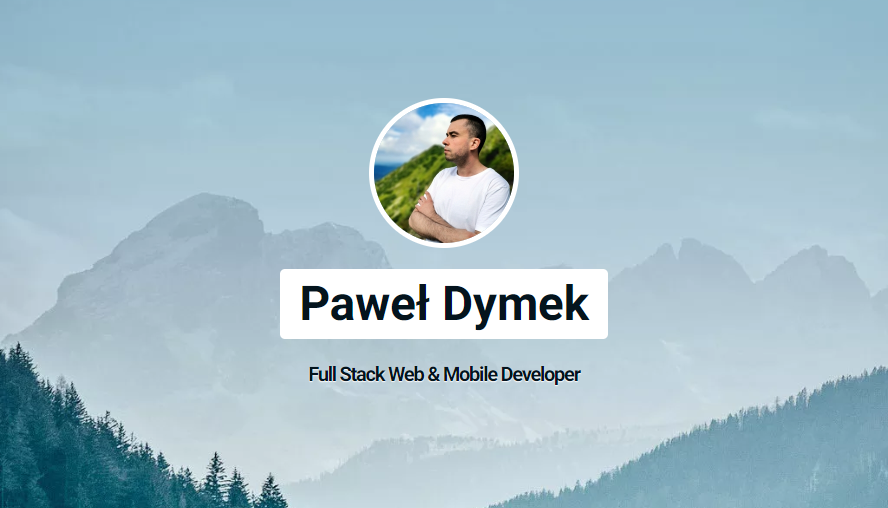
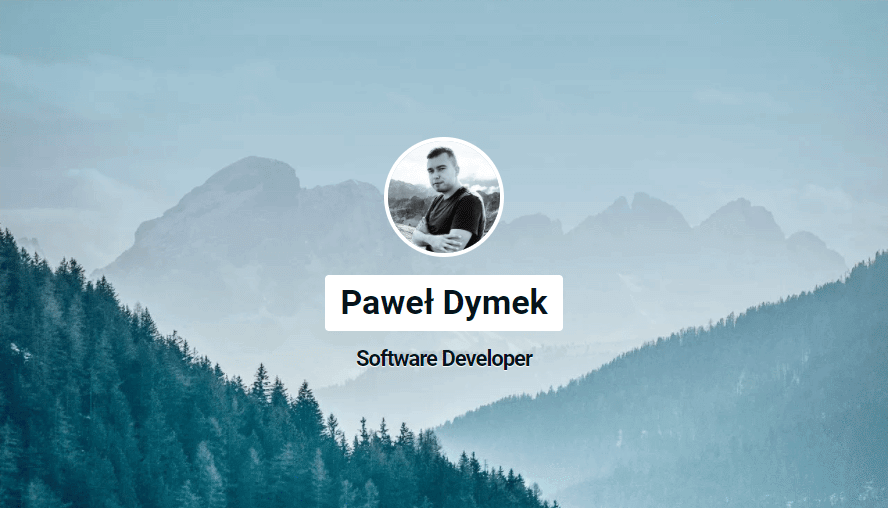
Update photo and profession title

diff --git a/public/css/app.css b/public/css/app.css
@@ -1,1 +1,1 @@
-html{box-sizing:border-box;font-size:16px}*,:after,:before{box-sizing:inherit}body,h1,h2,h3,h4,h5,h6,ol,p,ul{margin:0;padding:0;font-weight:400}ol,ul{list-style:none}img{max-width:100%;height:auto}body,html{width:100%;height:100%}body{font:16px/26px Roboto,sans-serif;color:#04141d}@media (max-width:576px){body{font-size:14px;line-height:24px}}a{text-decoration:none}code.hljs{border-radius:4px}.btn{padding:6px 10px;display:inline-block;-webkit-transition:all .3s;transition:all .3s}.btn.btn-sm{padding:2px 10px}.btn.btn-light{background:#eee;border-radius:4px;line-height:160%;color:#0175bf}.btn.btn-light i{font-size:14px;color:#0175bf}.btn.btn-light:hover{color:#fff;background:#0175bf}.btn.btn-light:hover i{color:#fff}@font-face{font-family:fontello;src:url(../fonts/fontello.eot?78377056);src:url(../fonts/fontello.eot?78377056#iefix) format("embedded-opentype"),url(../fonts/fontello.woff2?78377056) format("woff2"),url(../fonts/fontello.woff?78377056) format("woff"),url(../fonts/fontello.ttf?78377056) format("truetype"),url(../fonts/fontello.svg?78377056#fontello) format("svg");font-weight:400;font-style:normal}[class*=" icon-"]:before,[class^=icon-]:before{font-family:fontello;font-style:normal;font-weight:400;speak:none;display:inline-block;text-decoration:inherit;width:1em;margin-right:.2em;text-align:center;font-variant:normal;text-transform:none;line-height:1em;margin-left:.2em;-webkit-font-smoothing:antialiased;-moz-osx-font-smoothing:grayscale}.icon-search:before{content:"\E800"}.icon-cancel:before{content:"\E801"}.icon-left-open:before{content:"\E802"}.icon-link-ext:before{content:"\F08E"}.icon-twitter:before{content:"\F099"}.icon-github-circled:before{content:"\F09B"}.icon-mail-alt:before{content:"\F0E0"}.icon-facebook-squared:before{content:"\F308"}.icon-linkedin-squared:before{content:"\F30C"}.hljs{display:block;overflow-x:auto;padding:.5em;background:#282a36}.hljs-keyword,.hljs-link,.hljs-literal,.hljs-section,.hljs-selector-tag{color:#8be9fd}.hljs-function .hljs-keyword{color:#ff79c6}.hljs,.hljs-subst{color:#f8f8f2}.hljs-addition,.hljs-attribute,.hljs-bullet,.hljs-name,.hljs-string,.hljs-symbol,.hljs-template-tag,.hljs-template-variable,.hljs-title,.hljs-type,.hljs-variable{color:#f1fa8c}.hljs-comment,.hljs-deletion,.hljs-meta,.hljs-quote{color:#6272a4}.hljs-doctag,.hljs-keyword,.hljs-literal,.hljs-name,.hljs-section,.hljs-selector-tag,.hljs-strong,.hljs-title,.hljs-type{font-weight:700}.hljs-emphasis{font-style:italic}#wrapper{min-width:320px;height:100%}#wrapper #content{display:-webkit-box;display:flex;-webkit-box-flex:1;flex:1;-webkit-box-pack:end;justify-content:flex-end}@media (max-width:992px){#wrapper #content{height:auto;display:block}}#wrapper #content>#main,#wrapper #content>#sidebar{width:50%}@media (max-width:992px){#wrapper #content>#main,#wrapper #content>#sidebar{width:100%;position:static}}#wrapper #content>#sidebar{height:100%}@media (max-width:992px){#wrapper #content>#sidebar{height:auto}}#wrapper #content>#main{padding:50px}@media (max-width:992px){#wrapper #content>#main{overflow-y:auto}}@media (max-width:768px){#wrapper #content>#main{padding:30px}}@media (max-width:576px){#wrapper #content>#main{padding:15px}}#wrapper footer.main{margin-top:30px;padding-top:15px;border-top:1px solid #ccc;display:-webkit-box;display:flex;-webkit-box-pack:justify;justify-content:space-between;-webkit-box-align:center;align-items:center;color:#888}#wrapper footer.main .copyright,#wrapper footer.main .links{font-weight:300}@media (max-width:576px){#wrapper footer.main{-webkit-box-orient:vertical;-webkit-box-direction:normal;flex-direction:column}#wrapper footer.main .links{margin-top:10px}}#wrapper footer.main a{color:#0175bf}#wrapper footer.main a:hover{text-decoration:underline}#sidebar{width:50%;height:100%;padding:60px;text-align:center;position:fixed;top:0;left:0;display:-webkit-box;display:flex;-webkit-box-pack:center;justify-content:center;-webkit-box-align:center;align-items:center;-webkit-box-orient:vertical;-webkit-box-direction:normal;flex-direction:column;background:url(../images/backgrounds/1.jpg) 50% 50%/cover no-repeat;overflow-y:auto}@media (max-width:768px){#sidebar{height:auto;padding:50px 30px;display:block;overflow-y:visible}}#sidebar header .author .photo{margin-bottom:15px;line-height:100%}#sidebar header .author img{max-width:120px;border-radius:60px;border:4px solid #fff}@media (max-width:768px){#sidebar header .author img{max-width:100px;border-radius:50px}}#sidebar header .author h1,#sidebar header .author h2{margin-bottom:15px;padding:15px;font-size:38px;display:inline-block;background:#fff;color:#04141d;font-weight:700;border-radius:4px}@media (max-width:768px){#sidebar header .author h1,#sidebar header .author h2{font-size:32px}}#sidebar header .author span{display:block;font-weight:700;font-size:16px;letter-spacing:-1px;color:#04141d;text-shadow:0 1px 1px #fff}#sidebar header .author.small{margin-bottom:30px;display:block}@media (max-width:768px){#sidebar header .author.small{margin-bottom:20px}}#sidebar header .author.small .photo{margin-bottom:5px}#sidebar header .author.small img{max-width:60px;border-radius:30px;border-width:3px}#sidebar header .author.small h2{font-size:16px;padding:2px 10px}#sidebar .icons{width:100%;margin-top:15px;display:-webkit-box;display:flex;-webkit-box-pack:center;justify-content:center;-webkit-box-align:center;align-items:center;-webkit-box-orient:horizontal;-webkit-box-direction:normal;flex-direction:row}#sidebar .icons li{margin-left:10px;font-size:18px}#sidebar .icons li:first-of-type{margin-left:0;font-size:22px}#sidebar .icons li:nth-of-type(3) i{margin-top:-1px}#sidebar .icons li a{width:40px;height:40px;display:-webkit-box;display:flex;-webkit-box-pack:center;justify-content:center;-webkit-box-align:center;align-items:center;color:#fff;background:#012d48;border-radius:4px;-webkit-transition:all .3s;transition:all .3s}#sidebar .icons li a:hover{background:#0175bf}#sidebar h1.title{font-size:40px;font-weight:700;line-height:150%;display:inline-block;color:#fff}@media (max-width:992px){#sidebar h1.title{font-size:36px}}@media (max-width:768px){#sidebar h1.title{font-size:30px}}@media (max-width:576px){#sidebar h1.title{font-size:24px}}#sidebar h1.title span{background:#04141d;box-shadow:24px 0 0 #04141d,-24px 0 0 #04141d;padding:2px}@media (max-width:992px){#posts{padding:15px 0}}#posts article{padding:25px 0;border-top:1px solid #ccc}#posts article:first-of-type{padding-top:0;border-top:0}#posts article:last-of-type{padding-bottom:0}#posts article header{margin-bottom:25px}#posts article header h3{margin-bottom:10px;font-weight:700;font-size:26px;line-height:130%}@media (max-width:576px){#posts article header h3{font-size:22px}}#posts article header h3 a{color:#04141d;-webkit-transition:all .3s;transition:all .3s}#posts article header h3 a:hover{color:#0175bf}#posts article header .bottom{font-weight:300;line-height:120%;color:#888}#posts article header .bottom span{margin:0 4px;font-size:12px}#posts article header .bottom a{color:#888}#posts article header .bottom a:hover{color:#0175bf}#posts article header .bottom a i{margin-right:5px;vertical-align:middle}#posts article .read-more,#posts article .tags{margin-top:25px}#posts article .read-more a{color:#0175bf}#posts article .read-more a:hover{text-decoration:underline}.tags{margin:15px 0 0 -3px;display:-webkit-box;display:flex;flex-wrap:wrap;-webkit-box-align:center;align-items:center}.tags li{padding:3px}.tags li a{padding:5px 10px;display:inline-block;background:#eee;color:#0175bf;-webkit-transition:all .3s;transition:all .3s;border-radius:4px}.tags li a:hover{background:#0175bf;color:#fff}#article .top-bar{margin-bottom:30px;position:relative;text-align:center}@media (max-width:576px){#article .top-bar{margin-top:15px}}#article .top-bar:after{width:100%;height:1px;position:absolute;top:50%;left:0;content:" ";background:#ccc}#article .top-bar p{margin:0;padding:0 10px;display:inline-block;background:#fff;position:relative;z-index:2;font-weight:300;color:#888}@media (max-width:576px){#article .top-bar p{font-size:12px;line-height:100%;letter-spacing:-.5px}}#article .top-bar p span{font-size:12px}#article h1,#article h2,#article h3,#article h4,#article h5,#article h6{margin-bottom:30px;font-size:34px;font-weight:700;color:#666}@media (max-width:576px){#article h1,#article h2,#article h3,#article h4,#article h5,#article h6{font-size:30px}}#article h1,#article h2{color:#04141d}#article h2{font-size:26px}@media (max-width:576px){#article h2{font-size:24px}}#article h3{font-size:24px}@media (max-width:576px){#article h3{font-size:22px}}#article h4{font-size:22px}@media (max-width:576px){#article h4{font-size:20px}}#article h5{font-size:20px}@media (max-width:576px){#article h5{font-size:18px}}#article h6{font-size:18px}@media (max-width:576px){#article h6{font-size:16px}}#article .intro{font-size:18px;margin-bottom:30px;font-weight:700}@media (max-width:576px){#article .intro{font-size:16px}}#article figure.main{margin:0 0 30px;padding:0;line-height:100%;text-align:center}#article figure.main img{max-width:100%}#article figure.main figcaption{margin-top:10px;font-size:12px;color:#999}#article .content ul{margin:0 0 30px 30px;list-style-type:disc}#article .content ol{margin:0 0 30px 30px;list-style-type:decimal}#article .content p,#article .content pre{margin-bottom:30px}#article .content>p>code,#article .content li>code{margin:0 2px;padding:2px 5px;background:#eee}#article .content a{color:#0175bf;text-decoration:underline}#article .content a:hover{text-decoration:none}#article .content img{max-width:100%}#article .tags{margin-top:30px}#article .back-button{margin-top:30px;display:block;color:#0175bf;-webkit-transition:all .3s;transition:all .3s}#article .back-button:hover{color:#04141d}#article .back-button i{margin-right:5px;vertical-align:middle}#article #disqus_thread{min-height:100px;margin-top:30px}#cookie-alert{width:100%;padding:6px 10px;background:#fff;position:fixed;left:0;bottom:0;z-index:5;font-size:14px;line-height:120%;text-align:center;box-shadow:0 -2px 2px hsla(0,0%,58.8%,.2);-webkit-transition:opacity .3s;transition:opacity .3s}#cookie-alert.hidden{opacity:0}#cookie-alert .inner{padding:0 10px;display:-webkit-box;display:flex;-webkit-box-pack:center;justify-content:center;-webkit-box-align:center;align-items:center}@media (max-width:992px){#cookie-alert .inner{-webkit-box-orient:vertical;-webkit-box-direction:normal;flex-direction:column}}#cookie-alert .inner>div:nth-of-type(2){margin-left:20px}#cookie-alert .inner p{margin:0}@media (max-width:992px){#cookie-alert .inner p{margin-bottom:10px}}#cookie-alert .inner .btn{white-space:nowrap}#cookie-alert .inner .btn i{margin:0 2px 0 -6px}#wrapper #content.home #sidebar{background:url(../images/backgrounds/6.jpg) 50% 35%/cover no-repeat}
+html{box-sizing:border-box;font-size:16px}*,:after,:before{box-sizing:inherit}body,h1,h2,h3,h4,h5,h6,ol,p,ul{margin:0;padding:0;font-weight:400}ol,ul{list-style:none}img{max-width:100%;height:auto}body,html{width:100%;height:100%}body{font:16px/26px Roboto,sans-serif;color:#04141d}@media (max-width:576px){body{font-size:14px;line-height:24px}}a{text-decoration:none}code.hljs{border-radius:4px}.btn{padding:6px 10px;display:inline-block;-webkit-transition:all .3s;transition:all .3s}.btn.btn-sm{padding:2px 10px}.btn.btn-light{background:#eee;border-radius:4px;line-height:160%;color:#0175bf}.btn.btn-light i{font-size:14px;color:#0175bf}.btn.btn-light:hover{color:#fff;background:#0175bf}.btn.btn-light:hover i{color:#fff}@font-face{font-family:fontello;src:url(../fonts/fontello.eot?78377056);src:url(../fonts/fontello.eot?78377056#iefix) format("embedded-opentype"),url(../fonts/fontello.woff2?78377056) format("woff2"),url(../fonts/fontello.woff?78377056) format("woff"),url(../fonts/fontello.ttf?78377056) format("truetype"),url(../fonts/fontello.svg?78377056#fontello) format("svg");font-weight:400;font-style:normal}[class*=" icon-"]:before,[class^=icon-]:before{font-family:fontello;font-style:normal;font-weight:400;speak:none;display:inline-block;text-decoration:inherit;width:1em;margin-right:.2em;text-align:center;font-variant:normal;text-transform:none;line-height:1em;margin-left:.2em;-webkit-font-smoothing:antialiased;-moz-osx-font-smoothing:grayscale}.icon-search:before{content:"\E800"}.icon-cancel:before{content:"\E801"}.icon-left-open:before{content:"\E802"}.icon-link-ext:before{content:"\F08E"}.icon-twitter:before{content:"\F099"}.icon-github-circled:before{content:"\F09B"}.icon-mail-alt:before{content:"\F0E0"}.icon-facebook-squared:before{content:"\F308"}.icon-linkedin-squared:before{content:"\F30C"}.hljs{display:block;overflow-x:auto;padding:.5em;background:#282a36}.hljs-keyword,.hljs-link,.hljs-literal,.hljs-section,.hljs-selector-tag{color:#8be9fd}.hljs-function .hljs-keyword{color:#ff79c6}.hljs,.hljs-subst{color:#f8f8f2}.hljs-addition,.hljs-attribute,.hljs-bullet,.hljs-name,.hljs-string,.hljs-symbol,.hljs-template-tag,.hljs-template-variable,.hljs-title,.hljs-type,.hljs-variable{color:#f1fa8c}.hljs-comment,.hljs-deletion,.hljs-meta,.hljs-quote{color:#6272a4}.hljs-doctag,.hljs-keyword,.hljs-literal,.hljs-name,.hljs-section,.hljs-selector-tag,.hljs-strong,.hljs-title,.hljs-type{font-weight:700}.hljs-emphasis{font-style:italic}#wrapper{min-width:320px;height:100%}#wrapper #content{display:-webkit-box;display:flex;-webkit-box-flex:1;flex:1;-webkit-box-pack:end;justify-content:flex-end}@media (max-width:992px){#wrapper #content{height:auto;display:block}}#wrapper #content>#main,#wrapper #content>#sidebar{width:50%}@media (max-width:992px){#wrapper #content>#main,#wrapper #content>#sidebar{width:100%;position:static}}#wrapper #content>#sidebar{height:100%}@media (max-width:992px){#wrapper #content>#sidebar{height:auto}}#wrapper #content>#main{padding:50px}@media (max-width:992px){#wrapper #content>#main{overflow-y:auto}}@media (max-width:768px){#wrapper #content>#main{padding:30px}}@media (max-width:576px){#wrapper #content>#main{padding:15px}}#wrapper footer.main{margin-top:30px;padding-top:15px;border-top:1px solid #ccc;display:-webkit-box;display:flex;-webkit-box-pack:justify;justify-content:space-between;-webkit-box-align:center;align-items:center;color:#888}#wrapper footer.main .copyright,#wrapper footer.main .links{font-weight:300}@media (max-width:576px){#wrapper footer.main{-webkit-box-orient:vertical;-webkit-box-direction:normal;flex-direction:column}#wrapper footer.main .links{margin-top:10px}}#wrapper footer.main a{color:#0175bf}#wrapper footer.main a:hover{text-decoration:underline}#sidebar{width:50%;height:100%;padding:60px;text-align:center;position:fixed;top:0;left:0;display:-webkit-box;display:flex;-webkit-box-pack:center;justify-content:center;-webkit-box-align:center;align-items:center;-webkit-box-orient:vertical;-webkit-box-direction:normal;flex-direction:column;background:url(../images/backgrounds/1.jpg) 50% 50%/cover no-repeat;overflow-y:auto}@media (max-width:768px){#sidebar{height:auto;padding:50px 30px;display:block;overflow-y:visible}}#sidebar header .author .photo{margin-bottom:15px;line-height:100%}#sidebar header .author img{max-width:120px;border-radius:60px;border:4px solid #fff}@media (max-width:768px){#sidebar header .author img{max-width:100px;border-radius:50px}}#sidebar header .author h1,#sidebar header .author h2{margin-bottom:15px;padding:15px;font-size:34px;display:inline-block;background:#fff;color:#04141d;font-weight:700;border-radius:4px}@media (max-width:768px){#sidebar header .author h1,#sidebar header .author h2{font-size:30px}}#sidebar header .author span{display:block;font-weight:700;font-size:22px;letter-spacing:-1px;color:#04141d;text-shadow:0 1px 1px #fff}#sidebar header .author.small{margin-bottom:30px;display:block}@media (max-width:768px){#sidebar header .author.small{margin-bottom:20px}}#sidebar header .author.small .photo{margin-bottom:5px}#sidebar header .author.small img{max-width:60px;border-radius:30px;border-width:3px}#sidebar header .author.small h2{font-size:16px;padding:2px 10px}#sidebar .icons{width:100%;margin-top:15px;display:-webkit-box;display:flex;-webkit-box-pack:center;justify-content:center;-webkit-box-align:center;align-items:center;-webkit-box-orient:horizontal;-webkit-box-direction:normal;flex-direction:row}#sidebar .icons li{margin-left:10px;font-size:18px}#sidebar .icons li:first-of-type{margin-left:0;font-size:22px}#sidebar .icons li:nth-of-type(3) i{margin-top:-1px}#sidebar .icons li a{width:40px;height:40px;display:-webkit-box;display:flex;-webkit-box-pack:center;justify-content:center;-webkit-box-align:center;align-items:center;color:#fff;background:#012d48;border-radius:4px;-webkit-transition:all .3s;transition:all .3s}#sidebar .icons li a:hover{background:#0175bf}#sidebar h1.title{font-size:40px;font-weight:700;line-height:150%;display:inline-block;color:#fff}@media (max-width:992px){#sidebar h1.title{font-size:36px}}@media (max-width:768px){#sidebar h1.title{font-size:30px}}@media (max-width:576px){#sidebar h1.title{font-size:24px}}#sidebar h1.title span{background:#04141d;box-shadow:24px 0 0 #04141d,-24px 0 0 #04141d;padding:2px}@media (max-width:992px){#posts{padding:15px 0}}#posts article{padding:25px 0;border-top:1px solid #ccc}#posts article:first-of-type{padding-top:0;border-top:0}#posts article:last-of-type{padding-bottom:0}#posts article header{margin-bottom:25px}#posts article header h3{margin-bottom:10px;font-weight:700;font-size:26px;line-height:130%}@media (max-width:576px){#posts article header h3{font-size:22px}}#posts article header h3 a{color:#04141d;-webkit-transition:all .3s;transition:all .3s}#posts article header h3 a:hover{color:#0175bf}#posts article header .bottom{font-weight:300;line-height:120%;color:#888}#posts article header .bottom span{margin:0 4px;font-size:12px}#posts article header .bottom a{color:#888}#posts article header .bottom a:hover{color:#0175bf}#posts article header .bottom a i{margin-right:5px;vertical-align:middle}#posts article .read-more,#posts article .tags{margin-top:25px}#posts article .read-more a{color:#0175bf}#posts article .read-more a:hover{text-decoration:underline}.tags{margin:15px 0 0 -3px;display:-webkit-box;display:flex;flex-wrap:wrap;-webkit-box-align:center;align-items:center}.tags li{padding:3px}.tags li a{padding:5px 10px;display:inline-block;background:#eee;color:#0175bf;-webkit-transition:all .3s;transition:all .3s;border-radius:4px}.tags li a:hover{background:#0175bf;color:#fff}#article .top-bar{margin-bottom:30px;position:relative;text-align:center}@media (max-width:576px){#article .top-bar{margin-top:15px}}#article .top-bar:after{width:100%;height:1px;position:absolute;top:50%;left:0;content:" ";background:#ccc}#article .top-bar p{margin:0;padding:0 10px;display:inline-block;background:#fff;position:relative;z-index:2;font-weight:300;color:#888}@media (max-width:576px){#article .top-bar p{font-size:12px;line-height:100%;letter-spacing:-.5px}}#article .top-bar p span{font-size:12px}#article h1,#article h2,#article h3,#article h4,#article h5,#article h6{margin-bottom:30px;font-size:34px;font-weight:700;color:#666}@media (max-width:576px){#article h1,#article h2,#article h3,#article h4,#article h5,#article h6{font-size:30px}}#article h1,#article h2{color:#04141d}#article h2{font-size:26px}@media (max-width:576px){#article h2{font-size:24px}}#article h3{font-size:24px}@media (max-width:576px){#article h3{font-size:22px}}#article h4{font-size:22px}@media (max-width:576px){#article h4{font-size:20px}}#article h5{font-size:20px}@media (max-width:576px){#article h5{font-size:18px}}#article h6{font-size:18px}@media (max-width:576px){#article h6{font-size:16px}}#article .intro{font-size:18px;margin-bottom:30px;font-weight:700}@media (max-width:576px){#article .intro{font-size:16px}}#article figure.main{margin:0 0 30px;padding:0;line-height:100%;text-align:center}#article figure.main img{max-width:100%}#article figure.main figcaption{margin-top:10px;font-size:12px;color:#999}#article .content ul{margin:0 0 30px 30px;list-style-type:disc}#article .content ol{margin:0 0 30px 30px;list-style-type:decimal}#article .content p,#article .content pre{margin-bottom:30px}#article .content>p>code,#article .content li>code{margin:0 2px;padding:2px 5px;background:#eee}#article .content a{color:#0175bf;text-decoration:underline}#article .content a:hover{text-decoration:none}#article .content img{max-width:100%}#article .tags{margin-top:30px}#article .back-button{margin-top:30px;display:block;color:#0175bf;-webkit-transition:all .3s;transition:all .3s}#article .back-button:hover{color:#04141d}#article .back-button i{margin-right:5px;vertical-align:middle}#article #disqus_thread{min-height:100px;margin-top:30px}#cookie-alert{width:100%;padding:6px 10px;background:#fff;position:fixed;left:0;bottom:0;z-index:5;font-size:14px;line-height:120%;text-align:center;box-shadow:0 -2px 2px hsla(0,0%,58.8%,.2);-webkit-transition:opacity .3s;transition:opacity .3s}#cookie-alert.hidden{opacity:0}#cookie-alert .inner{padding:0 10px;display:-webkit-box;display:flex;-webkit-box-pack:center;justify-content:center;-webkit-box-align:center;align-items:center}@media (max-width:992px){#cookie-alert .inner{-webkit-box-orient:vertical;-webkit-box-direction:normal;flex-direction:column}}#cookie-alert .inner>div:nth-of-type(2){margin-left:20px}#cookie-alert .inner p{margin:0}@media (max-width:992px){#cookie-alert .inner p{margin-bottom:10px}}#cookie-alert .inner .btn{white-space:nowrap}#cookie-alert .inner .btn i{margin:0 2px 0 -6px}#wrapper #content.home #sidebar{background:url(../images/backgrounds/6.jpg) 50% 35%/cover no-repeat}

diff --git a/resources/sass/partials/sidebar.scss b/resources/sass/partials/sidebar.scss
@@ -42,7 +42,7 @@
             h2 {
                 margin-bottom: 15px;
                 padding: 15px;
-                font-size: 38px;
+                font-size: 34px;
                 display: inline-block;
                 background: #fff;
                 color: #04141d;
@@ -50,14 +50,14 @@
                 border-radius: 4px;
 
                 @media all and (max-width: $break-medium) {
-                    font-size: 32px;
+                    font-size: 30px;
                 }
             }
 
             span {
                 display: block;
                 font-weight: bold;
-                font-size: 16px;
+                font-size: 22px;
                 letter-spacing: -1px;
                 color: #04141d;
                 text-shadow: 0 1px 1px rgba(255, 255, 255, 1);

diff --git a/resources/views/pages/home.blade.php b/resources/views/pages/home.blade.php
@@ -9,7 +9,7 @@
                         <img src="{{ url('images/pawel_dymek.jpg') }}" alt="Paweł Dymek" />
                     </div>
                     <h1>Paweł Dymek</h1>
-                    <span>Full Stack Web & Mobile Developer</span>
+                    <span>Software Developer</span>
                 </div>
             </header>
             <ul class="icons">
